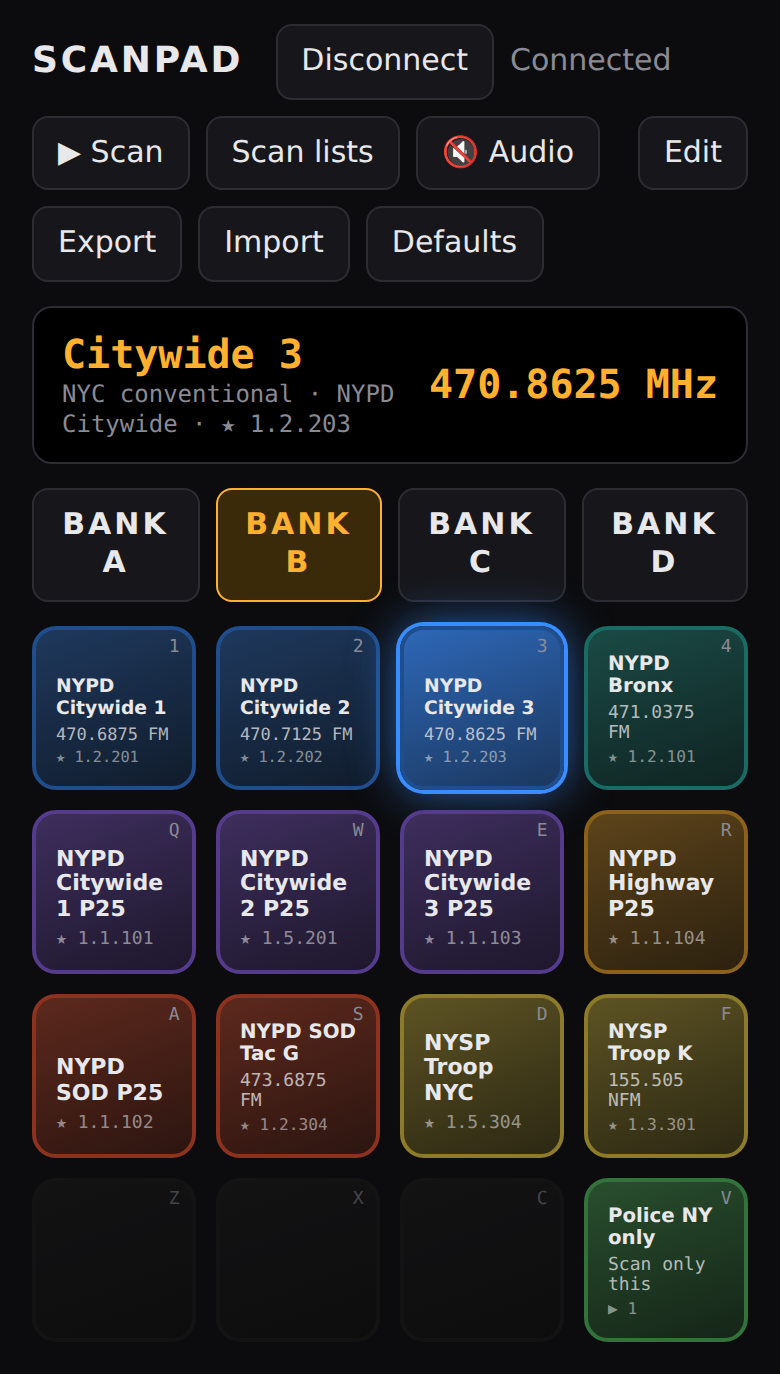
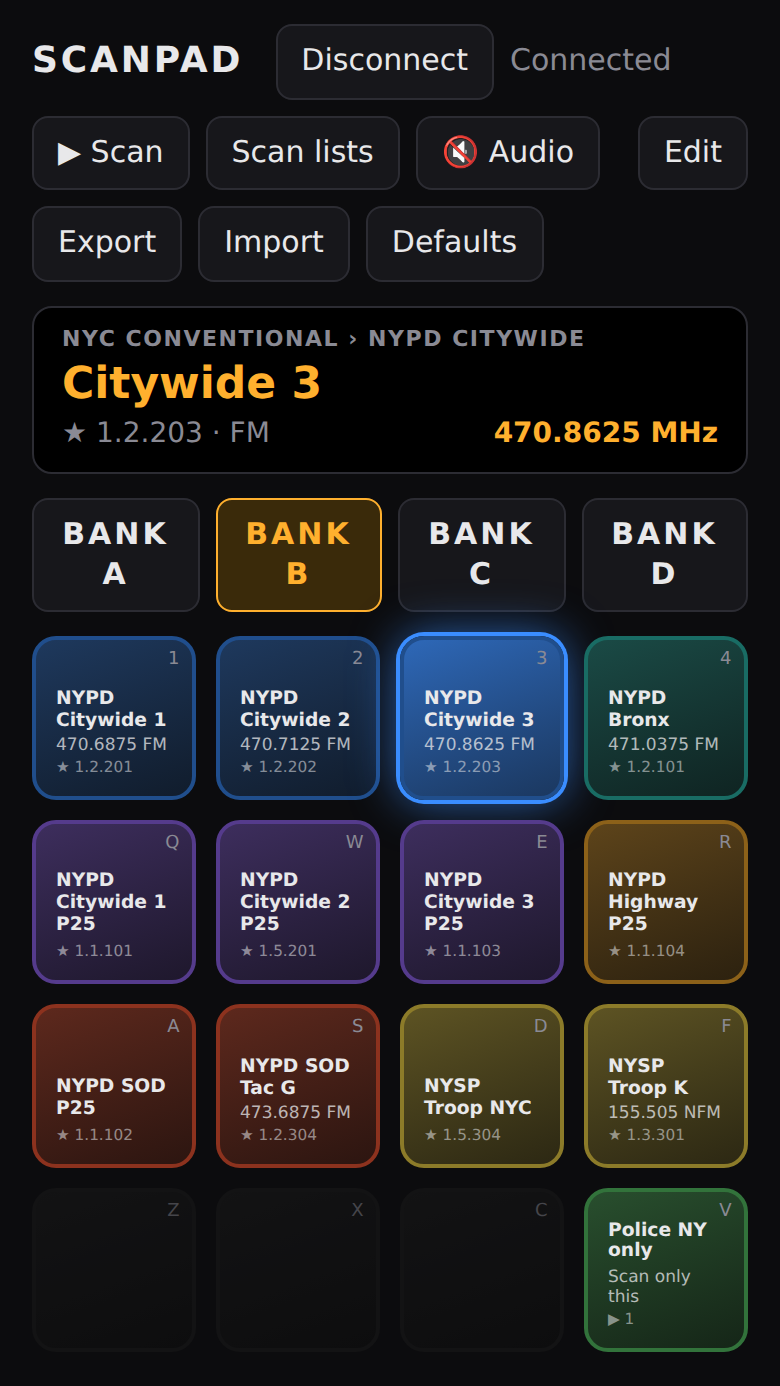
Lay the display strip out like the radio's screen
Where the radio is on top, the channel name big on one line (sliding
sideways when it's too long), the tag and mode bottom left and the
frequency bottom right. The strip keeps one height, so the pads don't
jump. Holding a frequency, it shows the pad's name and the frequency
once instead of the frequency twice. Pads and strip use the system font
throughout, and a bank whose names don't fit shrinks every pad by the
same amount so the bank still matches. Refresh the README screenshots.

diff --git a/index.html b/index.html
@@ -16,15 +16,20 @@
   button { background: var(--panel); color: var(--text); border: 1px solid var(--line); border-radius: 8px; padding: 8px 12px; font: inherit; cursor: pointer; }
   button.on { background: #3a2a0a; border-color: var(--lcd); color: var(--lcd); }
   .spacer { flex: 1; }
-  #lcd { background: #000; border: 1px solid var(--line); border-radius: 10px; padding: 10px 14px; font: 600 20px/1.3 ui-monospace, Menlo, Consolas, monospace; color: var(--lcd); min-height: 56px; display: flex; justify-content: space-between; align-items: center; gap: 12px; }
-  #lcd small { display: block; color: var(--dim); font-size: 12px; font-weight: 400; }
-  /* The strip keeps one height whatever the radio shows, so the pads below
-     don't jump while it scans: the channel name stays on one line, the line
-     under it gets room for two, and anything longer ends in "…". */
-  #lcd > div:first-child { flex: 1; min-width: 0; }
-  #lcdName { display: block; white-space: nowrap; overflow: hidden; text-overflow: ellipsis; }
-  #lcd #lcdSub { display: -webkit-box; -webkit-box-orient: vertical; -webkit-line-clamp: 2; overflow: hidden; min-height: 2.6em; }
-  #lcdFreq { flex: none; white-space: nowrap; }
+  /* The display strip, laid out like the radio's own screen: where it is on
+     top, the channel name big, its tag and frequency along the bottom. Every
+     line is one line high, so the strip keeps its height and the pads below
+     don't jump while it scans; a name too long for the strip slides sideways. */
+  #lcd { background: #000; border: 1px solid var(--line); border-radius: 10px; padding: 9px 14px 10px; color: var(--lcd); display: flex; flex-direction: column; gap: 2px; font-variant-numeric: tabular-nums; }
+  #lcdPath { font-size: 11px; font-weight: 600; letter-spacing: .07em; text-transform: uppercase; color: var(--dim); white-space: nowrap; overflow: hidden; text-overflow: ellipsis; min-height: 1.3em; }
+  #lcdNameBox { overflow: hidden; white-space: nowrap; font-size: 22px; font-weight: 600; line-height: 1.25; }
+  #lcdNameBox.slide { -webkit-mask-image: linear-gradient(90deg, #000 calc(100% - 16px), transparent); mask-image: linear-gradient(90deg, #000 calc(100% - 16px), transparent); }
+  #lcdName { display: inline-block; }
+  #lcdName.slide { animation: lcdSlide var(--t) ease-in-out infinite alternate; }
+  @keyframes lcdSlide { 0%, 18% { transform: translateX(0); } 82%, 100% { transform: translateX(var(--dx)); } }
+  #lcdBot { display: flex; justify-content: space-between; gap: 12px; font-size: 14px; white-space: nowrap; min-height: 1.3em; }
+  #lcdTag { color: var(--dim); overflow: hidden; text-overflow: ellipsis; }
+  #lcdFreq { font-weight: 600; flex: none; }
   #banks { display: flex; gap: 8px; }
   #banks button { flex: 1; font-weight: 700; letter-spacing: .1em; }
   /* The pads take whatever room is left on screen, on any device: square when
@@ -38,11 +43,11 @@
   .pad.empty { --c: #333; opacity: .45; }
   .pad.live { box-shadow: 0 0 0 2px var(--c), 0 0 24px color-mix(in srgb, var(--c) 70%, transparent); background: linear-gradient(160deg, color-mix(in srgb, var(--c) 70%, #111), color-mix(in srgb, var(--c) 35%, #0a0a0a)); }
   /* Pad text scales with the pad (cqmin = 1% of its shorter side), and --fit
-     shrinks it further on a pad whose text wouldn't fit (see fitPad). */
-  .pad .name { font-weight: 700; font-size: calc(clamp(11px, 12cqmin, 26px) * var(--fit, 1)); line-height: 1.15; overflow-wrap: break-word; }
-  .pad .freq { font: calc(clamp(10px, 9.5cqmin, 20px) * var(--fit, 1)) ui-monospace, Menlo, Consolas, monospace; color: color-mix(in srgb, var(--text) 75%, transparent); margin-top: 2px; }
-  .pad .tag { font: calc(clamp(9px, 8cqmin, 17px) * var(--fit, 1)) ui-monospace, Menlo, Consolas, monospace; color: color-mix(in srgb, var(--text) 55%, transparent); margin-top: 1px; }
-  .pad .key { position: absolute; top: 6%; right: 8%; font: clamp(9px, 7cqmin, 15px) ui-monospace, monospace; color: var(--dim); }
+     shrinks it further on a bank whose text wouldn't fit (see fitPads). */
+  .pad .name { font-weight: 600; font-size: calc(clamp(11px, 12cqmin, 26px) * var(--fit, 1)); line-height: 1.15; overflow-wrap: break-word; }
+  .pad .freq { font: 500 calc(clamp(10px, 9.5cqmin, 20px) * var(--fit, 1)) / 1.2 system-ui, -apple-system, sans-serif; font-variant-numeric: tabular-nums; color: color-mix(in srgb, var(--text) 75%, transparent); margin-top: 2px; }
+  .pad .tag { font: 500 calc(clamp(9px, 8cqmin, 17px) * var(--fit, 1)) system-ui, -apple-system, sans-serif; font-variant-numeric: tabular-nums; color: color-mix(in srgb, var(--text) 55%, transparent); margin-top: 1px; }
+  .pad .key { position: absolute; top: 6%; right: 8%; font: 500 clamp(9px, 7cqmin, 15px) system-ui, -apple-system, sans-serif; color: var(--dim); }
   body.editing .pad { outline: 1px dashed var(--dim); outline-offset: -6px; }
   dialog { background: var(--panel); color: var(--text); border: 1px solid var(--line); border-radius: 12px; padding: 16px; width: min(360px, calc(100vw - 32px)); }
   dialog::backdrop { background: rgba(0,0,0,.6); }
@@ -66,8 +71,7 @@
     header { gap: 6px; }
     header button { padding: 6px 9px; }
     h1 { width: 100%; }
-    #lcd { font-size: 15px; min-height: 0; flex-direction: column; align-items: flex-start; gap: 2px; }
-    #lcd > div:first-child { width: 100%; }
+    #lcdNameBox { font-size: 18px; }
     #banks { display: grid; grid-template-columns: 1fr 1fr; align-self: start; gap: 6px; }
     #banks button { padding: 6px; }
     #padArea { grid-column: 2; grid-row: 1 / span 3; }
@@ -78,7 +82,9 @@
   @media (min-width: 1200px) and (min-height: 900px) {
     body { font-size: 18px; gap: 16px; max-width: none; }
     h1 { font-size: 24px; }
-    #lcd { font-size: 26px; min-height: 72px; }
+    #lcdPath { font-size: 13px; }
+    #lcdNameBox { font-size: 30px; }
+    #lcdBot { font-size: 18px; }
     #grid { --g: 14px; }
   }
   #qkDlg { width: min(460px, calc(100vw - 32px)); }
@@ -119,7 +125,7 @@
   <input id="file" type="file" accept=".json,application/json" hidden>
 </header>
 
-<div id="lcd"><div><span id="lcdName">—</span><small id="lcdSub">Connect to the SDS150</small></div><div id="lcdFreq"></div></div>
+<div id="lcd"><div id="lcdPath">Connect to the SDS150</div><div id="lcdNameBox"><span id="lcdName">—</span></div><div id="lcdBot"><span id="lcdTag"></span><span id="lcdFreq"></span></div></div>
 <div id="banks"></div>
 <div id="padArea"><div id="grid"></div></div>
 
@@ -263,9 +269,7 @@ const radio = new SDS150({
       refreshSwitchPads();
     } else if (s === 'disconnected') {
       liveSteps = null;
-      $('lcdName').textContent = '—';
-      $('lcdSub').textContent = 'Disconnected';
-      $('lcdFreq').textContent = '';
+      showScreen({ path: 'Disconnected' });
       renderGrid();
     }
   },
@@ -277,9 +281,7 @@ const radio = new SDS150({
     screen = scr;
     learnNames(scr);
     liveSteps = scr.mhz ? mhzToSteps(scr.mhz) : null;
-    $('lcdName').textContent = scr.name || '—';
-    $('lcdSub').textContent = [scr.system, scr.dept, scr.tag && `★ ${scr.tag}`].filter(Boolean).join(' · ') || 'Now on';
-    $('lcdFreq').textContent = scr.mhz ? `${parseFloat(scr.mhz).toFixed(4)} MHz` : '';
+    showScreen(describe(scr));
     renderGrid();
   },
 });
@@ -304,7 +306,7 @@ $('connect').onclick = async () => {
   catch (e) {
     $('status').textContent = 'Not connected';
     // Keep the reason on screen (in the display strip) so it can be read off an iPad.
-    if (e.name !== 'NotFoundError') { $('lcdName').textContent = 'Connect failed'; $('lcdSub').textContent = e.message || String(e); }
+    if (e.name !== 'NotFoundError') showScreen({ path: 'Connect failed', name: e.message || String(e) });
   }
 };
 
@@ -322,6 +324,43 @@ function renderBanks() {
     return btn;
   }));
 }
+
+// What the display strip shows for the radio's screen. Holding a frequency
+// (a frequency pad), the radio shows the frequency as the channel name; show
+// the pad's name instead, and the frequency only once.
+function describe(scr) {
+  const pad = padFor(scr);
+  const held = !scr.tag && (!scr.name || parseFloat(scr.name) === parseFloat(scr.mhz));
+  if (held) return { path: 'Holding a frequency', name: pad ? pad.name : 'Frequency', mode: pad?.mode, mhz: scr.mhz };
+  return { path: [scr.system, scr.dept].filter(Boolean).join(' › '), name: scr.name || '—', tag: scr.tag, mode: pad?.mode, mhz: scr.mhz };
+}
+
+// The pad for what the radio is on, by tag or else by frequency: this bank's first.
+function padFor(scr) {
+  const steps = scr.mhz ? mhzToSteps(scr.mhz) : null;
+  const pads = [state.bank, ...BANKS.filter(b => b !== state.bank)].flatMap(b => state.banks[b]).filter(p => p && p.kind !== 'qk');
+  return (scr.tag && pads.find(p => p.kind === 'tag' && p.tag === scr.tag))
+    || (steps !== null && pads.find(p => p.mhz && mhzToSteps(p.mhz) === steps)) || null;
+}
+
+function showScreen({ path = '', name = '—', tag = '', mode = '', mhz = '' } = {}) {
+  $('lcdPath').textContent = path;
+  $('lcdTag').textContent = [tag && `★ ${tag}`, mode].filter(Boolean).join(' · ');
+  $('lcdFreq').textContent = mhz ? `${parseFloat(mhz).toFixed(4)} MHz` : '';
+  if ($('lcdName').textContent !== name) { $('lcdName').textContent = name; slideName(); }
+}
+
+// A name too long for the strip slides to its end and back, pausing at each.
+function slideName() {
+  const el = $('lcdName'), box = $('lcdNameBox');
+  el.classList.remove('slide'); box.classList.remove('slide');
+  const over = el.offsetWidth - box.clientWidth;
+  if (over <= 0) return;
+  el.style.setProperty('--dx', `${-over - 16}px`);  // its end clear of the fade
+  el.style.setProperty('--t', `${(2 + over / 40).toFixed(1)}s`);
+  el.classList.add('slide'); box.classList.add('slide');
+}
+new ResizeObserver(slideName).observe($('lcdNameBox'));
 
 // The 16 pad buttons are made once and updated in place: the radio's screen
 // arrives every 1.5 s, and replacing a button under a finger loses its tap or
@@ -351,21 +390,23 @@ function renderGrid() {
       el.querySelector('.tag').textContent = p && p.kind === 'tag' ? `★ ${p.tag}` : '';
     }
   });
-  [...$('grid').children].forEach(fitPad);
+  fitPads();
 }
 
-// A long name on a small pad: shrink the pad's text until it fits. The text
-// sits at the bottom of the pad, so what doesn't fit runs off the top.
-function fitPad(el) {
-  const key = `${el.textContent}|${el.clientWidth}x${el.clientHeight}`;
-  if (el.fitKey === key) return;  // the screen is read up to 4 times a second
-  el.fitKey = key;
-  el.style.removeProperty('--fit');
-  const over = () => el.getBoundingClientRect().top + el.clientTop + parseFloat(getComputedStyle(el).paddingTop)
+// Long names on small pads: shrink the text until every pad's fits, by the
+// same amount on all of them so the bank still reads as one. The text sits at
+// the bottom of a pad, so what doesn't fit runs off the top.
+function fitPads() {
+  const grid = $('grid'), pads = [...grid.children];
+  const key = pads.map(el => el.textContent).join('|') + `|${grid.clientWidth}x${grid.clientHeight}`;
+  if (grid.fitKey === key) return;  // the screen is read up to 4 times a second
+  grid.fitKey = key;
+  const over = el => el.getBoundingClientRect().top + el.clientTop + parseFloat(getComputedStyle(el).paddingTop)
     - el.querySelector('.name').getBoundingClientRect().top;
-  for (let f = 0.95; f > 0.55 && over() > 0.5; f -= 0.05) el.style.setProperty('--fit', f.toFixed(2));
+  grid.style.removeProperty('--fit');
+  for (let f = 0.95; f > 0.55 && pads.some(el => over(el) > 0.5); f -= 0.05) grid.style.setProperty('--fit', f.toFixed(2));
 }
-new ResizeObserver(() => [...$('grid').children].forEach(fitPad)).observe($('grid'));
+new ResizeObserver(fitPads).observe($('grid'));
 
 // A pad is live when the radio shows its tag or its frequency.
 function isLive(p) {
